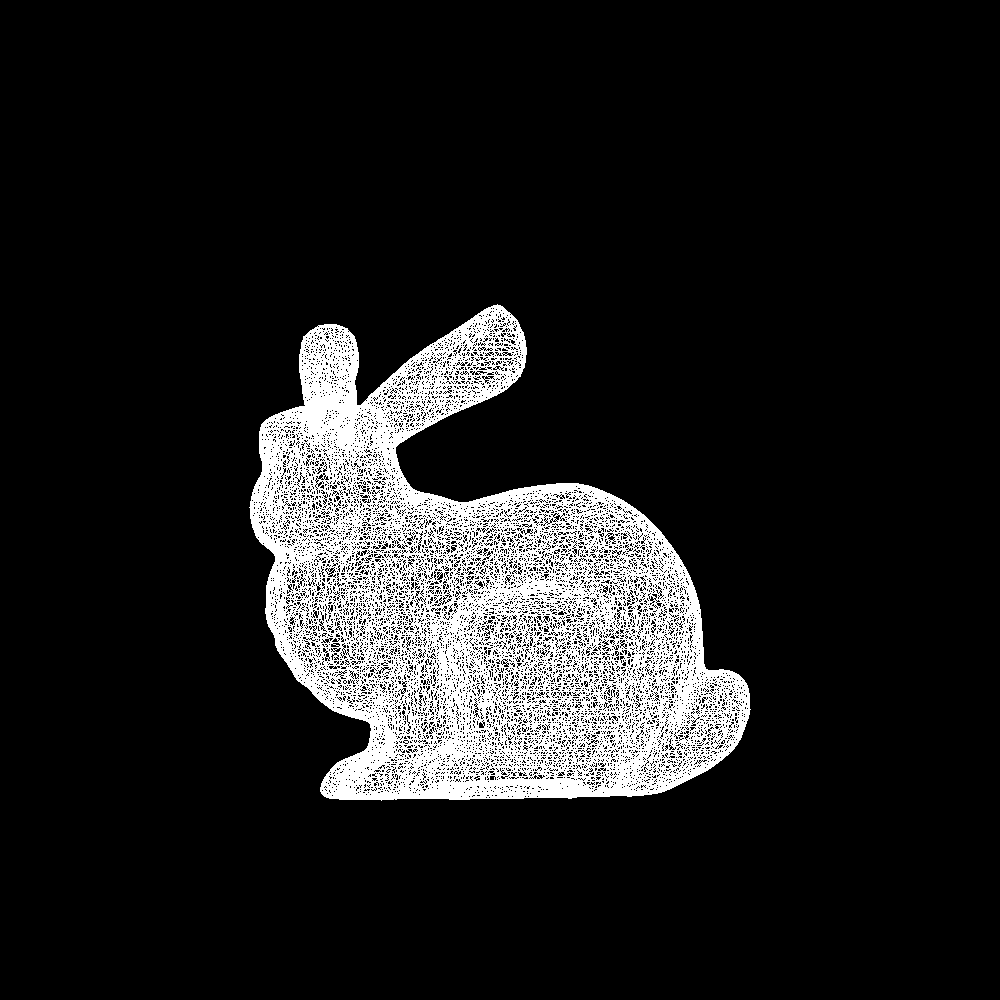
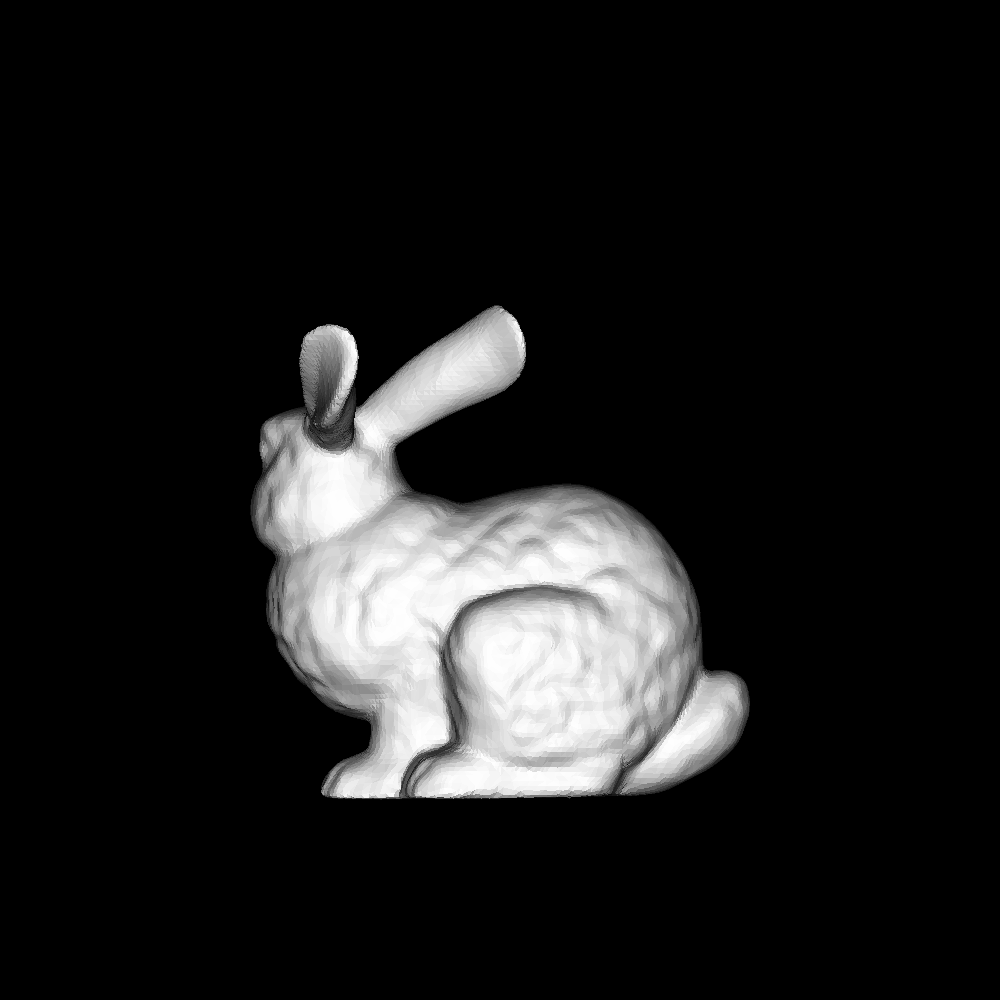
lab2

Changed region(s): [[0.248, 0.31, 0.775, 0.806]]

diff --git a/test.py b/test.py
@@ -1,8 +1,10 @@
 import numpy as np
 from PIL import Image
 from math import floor
-import math
+from math import ceil
 
+width = 1000
+height = 1000
 
 def draw_line(img_mat, p1, p2):  
     d_max = max(abs(floor(p2[0])-floor(p1[0])), abs(floor(p2[1])-floor(p1[1])))
@@ -26,7 +28,37 @@ def draw_line(img_mat, p1, p2):
         y += dy
 
 
-img_mat = np.zeros((1000, 1000, 3), dtype = np.uint8)
+
+def bc(p, p0, p1, p2):
+    lambda0 = ((p[0] - p2[0]) * (p1[1] - p2[1]) - (p1[0] - p2[0]) * (p[1] - p2[1])) /  ((p0[0] - p2[0]) * (p1[1] - p2[1]) - (p1[0] - p2[0]) * (p0[1] - p2[1])) 
+    lambda1 = ((p0[0] - p2[0]) * (p[1] - p2[1]) - (p[0] - p2[0]) * (p0[1] - p2[1])) /  ((p0[0] - p2[0]) * (p1[1] - p2[1]) - (p1[0] - p2[0]) * (p0[1] - p2[1])) 
+    lambda2 = 1.0 - lambda0 - lambda1 
+
+    return (lambda0, lambda1, lambda2)
+
+def draw_face(img_mat, z_buffer, p0, p1, p2, color):
+    xmin = floor(min(p0[0], p1[0], p2[0]))
+    ymin = floor(min(p0[1], p1[1], p2[1]))
+    xmax = ceil(max(p0[0], p1[0], p2[0]))
+    ymax = ceil(max(p0[1], p1[1], p2[1]))
+
+    if xmin < 0: xmin = 0
+    if ymin < 0: ymin = 0
+    if xmax > width: xmax = width
+    if ymax > height: ymax = height
+
+    for x in range(xmin, xmax):
+        for y in range(ymin, ymax):
+            l0, l1, l2 = bc([x+0.5, y+0.5], p0, p1, p2)
+            if l0 > 0 and l1 > 0 and l2 > 0:
+                z = l0*p0[2] + l1*p1[2] + l2*p2[2]
+                if z < z_buffer[y, x]:
+                    z_buffer[y, x] = z
+                    img_mat[y, x] = color
+
+
+img_mat = np.zeros((width, height, 3), dtype = np.uint8)
+z_buffer = np.full((width, height), np.inf, dtype = np.float32)
 
 
 with open("bunny.obj") as f:
@@ -44,14 +76,23 @@ with open("bunny.obj") as f:
 scale = 5000
 x_offset, y_offset = 500, 800
 z_offset = 0
-vertices = [[v[0] * scale + x_offset, v[1]* - scale + y_offset, v[2] * scale + z_offset] for v in vertices]
+vertices = [[v[0] * scale + x_offset, v[1] * -scale + y_offset, v[2] * scale + z_offset] for v in vertices]
 
 for f in faces:
-    for i in range(3):
-        draw_line(img_mat, vertices[f[i] - 1], vertices[f[(i+1) % 3] - 1])
+    p0 = vertices[f[0]-1]
+    p1 = vertices[f[1]-1]
+    p2 = vertices[f[2]-1]
+    v1 = [p1[0] - p2[0], p1[1] - p2[1], p1[2] - p2[2]]
+    v2 = [p1[0] - p0[0], p1[1] - p0[1], p1[2] - p0[2]]
+    normal = -np.cross(v1, v2)
+    light = [0, 0, 1]
 
+    cos = np.dot(normal, light)/(np.linalg.norm(normal) * np.linalg.norm(light))
 
-    
+    color = -255 * cos
+    if cos < 0:
+        draw_face(img_mat, z_buffer, p0, p1, p2, color)
+
 img = Image.fromarray(img_mat)
 img.save('img.png')
 
